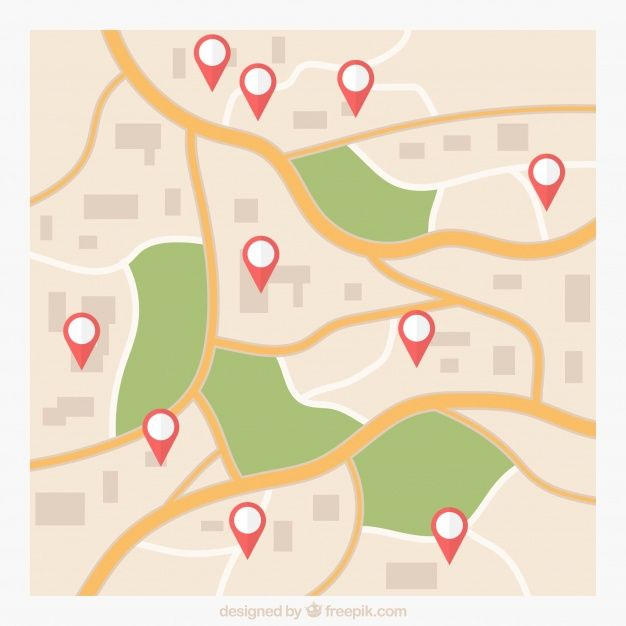
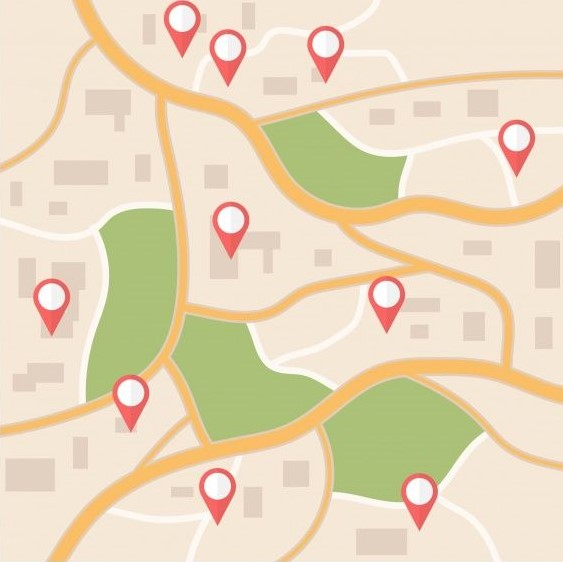
new file:   images/auto package.jpg 	deleted:    images/pic02.jpg 	modified:   images/store exp.jpg 	modified:   index.html

diff --git a/index.html b/index.html
@@ -71,7 +71,7 @@
 											<h3>Identifying Optimal New Store Locations</h3>
 										</header>
 										<p>In this project, we utilized DBSCAN and K-means algorithms to analyze order addresses and determine optimal locations for opening new stores. 
-											By clustering order data, we identified strategic areas that efficiently manage order volumes within each store's coverage, resulting in a 17% increase in shelving efficiency and a 21% reduction in drivers' in-store time.</p>
+											By clustering order data, we identified strategic areas that efficiently manage order volumes within each store's coverage.</p>
 									</section>
 
 							</div>
@@ -79,13 +79,12 @@
 
 								<!-- Feature -->
 									<section>
-										<a href="#" class="image featured"><img src="images/pic02.jpg" alt="" /></a>
+										<a href="#" class="image featured"><img src="images/auto package.jpg" alt="" /></a>
 										<header>
-											<h3>Nice! What is HTML5 UP?</h3>
+											<h3>Automatic Package Placement Algorithm</h3>
 										</header>
-										<p><a href="http://html5up.net">HTML5 UP</a> is a side project of <a href="http://twitter.com/ajlkn">AJ’s</a> (= me).
-										I started it as a way to both test my responsive tools and sharpen up my coding
-										and design skills a bit.</p>
+										<p>In this project, we designed and implemented an algorithm for automatic package placement recommendations
+											, leading to a 17% increase in the number of packages shelved and a 21% reduction in drivers' in-store time.</p>
 									</section>
 
 							</div>
